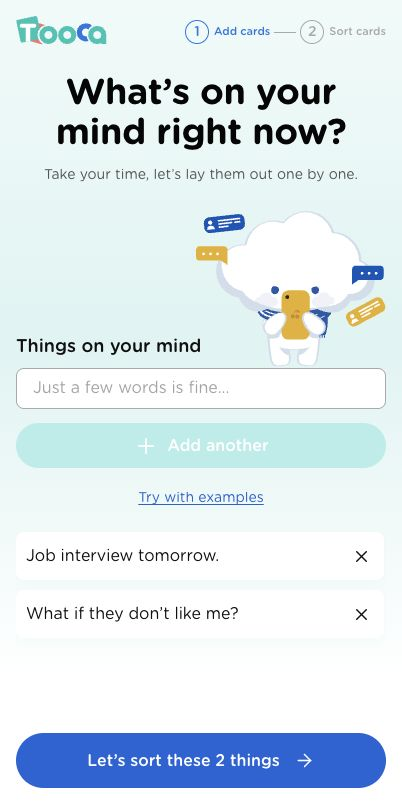
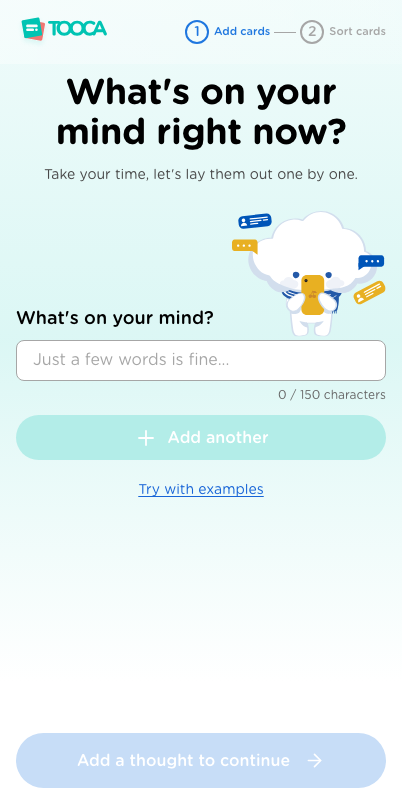
Refresh Tooca branding and case study link

diff --git a/design-qa.md b/design-qa.md
@@ -2,26 +2,26 @@
 
 [← README](README.md) · [Product](docs/product.md) · [Development & verification](docs/development.md)
 
-This report records earlier visual and interaction reviews. Screenshots are historical evidence, not a live rendering of the latest code. Updating this document did not rerun the application checks.
+This report records visual and interaction review evidence. The current capture set was refreshed on 4 October 2026 after the independent TOOCA two-card logo and favicon replaced the earlier identity assets. Older comparison captures remain in the repository as process history; they are not evidence of the current identity.
 
 ## Review overview
 
 | Area | Recorded result | Remaining concern |
 | :--- | :--- | :--- |
-| Add cards | Reference comparisons and responsive spacing fixes completed | Captures predate the 150-character input cap and initial-focus update |
-| Sort cards | Full neutral, drag, next-card, undo, and responsive states reviewed | Captures predate mobile mascot feedback and delayed next-card text; supplied colors have insufficient contrast |
-| Reflection | Groups, undo, reset, responsive layout, and persistence reviewed | Captures predate the supplied group icon assets and some background and mascot-state updates |
+| Add cards | Current desktop and mobile captures include the new logo | Broader historical layout comparisons are archived |
+| Sort cards | Current neutral, drag, next-card, and responsive captures were regenerated by the browser verification script | Supplied colors have insufficient contrast |
+| Reflection | Current desktop and mobile captures include the new logo | Broader historical layout comparisons are archived |
 | Design tokens | Shared color/radius generation and raw-value audit added | Layout and typography values have separate ownership |
 
 ## Visual evidence
 
-| Experience | Desktop | Mobile / responsive | Comparison |
-| :--- | :--- | :--- | :--- |
-| Add cards | [Two cards](qa/step1-desktop-1440.png) · [Ten cards](qa/step1-desktop-10-cards.png) | [Mobile](qa/step1-mobile-402x812.png) · [Tablet fix](qa/step1-tablet-fixed.png) · [Compact desktop fix](qa/step1-compact-desktop-fixed.png) | [Reference comparison](qa/comparison-full.png) |
-| Sort cards | [Neutral](qa/step2-full/01-idle.png) · [Right drag](qa/step2-full/02-drag-right.png) · [Left drag](qa/step2-full/03-drag-left.png) · [Next card](qa/step2-full/04-next-card.png) | [402 px](qa/step2-full/next-402x812.png) · [320 px](qa/step2-full/next-320x667.png) · [780 px](qa/step2-full/next-780x900.png) | [Full interaction comparison](qa/step2-full/comparison.png) |
-| Reflection | [Desktop](qa/step3/desktop-1440x1024.png) | [Mobile](qa/step3/mobile-402x812.png) · [Tablet](qa/step3/tablet-780x900.png) | [Reference comparison](qa/step3/comparison.png) |
+| Experience | Desktop | Mobile / responsive |
+| :--- | :--- | :--- |
+| Add cards | [Current desktop](qa/step1-desktop-1440.png) | [Current mobile](qa/step1-mobile-402x812.png) |
+| Sort cards | [Neutral](qa/step2-full/01-idle.png) · [Right drag](qa/step2-full/02-drag-right.png) · [Left drag](qa/step2-full/03-drag-left.png) · [Next card](qa/step2-full/04-next-card.png) | [402 px](qa/step2-full/next-402x812.png) · [320 px](qa/step2-full/next-320x667.png) · [780 px](qa/step2-full/next-780x900.png) |
+| Reflection | [Current desktop](qa/step3/desktop-1440x1024.png) | [Current mobile](qa/step3/mobile-402x812.png) |
 
-The original design references were supplied outside this repository in the assignment's Setup, Categorize, and Reflection folders. The tracked comparison images above let GitHub readers inspect the recorded comparisons without those local folders. Desktop references use 1440 × 1024; mobile comparisons crop the reference's 62 px device status bar to compare a 402 × 812 app area.
+The original design references were supplied outside this repository in the assignment's Setup, Categorize, and Reflection folders. Earlier comparison images are retained locally for process history but are intentionally not linked above because they predate the current identity. Current desktop captures use 1440 × 1024; mobile captures use 402 × 812.
 
 ## Review history
 
@@ -35,7 +35,7 @@ The fix introduced a tablet layout through 920 px, reserved mascot space between
 
 The first pass corrected mobile card text wrapping and desktop mascot geometry. The full-reference follow-up reviewed the blue neutral card and underlay, coral/teal directional colors, approximately ±12° rotation, overlap over the mascots, final-card sizing, and reserved undo space.
 
-Recorded browser checks covered both directions, cancelled drag, next card, undo, refresh, repeated clicks, completion, reduced motion, and overflow at 1440, 780, 402, and 320 px widths. Earlier captures are also available in [the initial comparison](qa/step2/comparison.png).
+Recorded browser checks covered both directions, cancelled drag, next card, undo, refresh, repeated clicks, completion, reduced motion, and overflow at 1440, 780, 402, and 320 px widths. Earlier comparison captures remain archived and are not current-brand evidence.
 
 ### Reflection
 

diff --git a/README.md b/README.md
@@ -8,7 +8,7 @@
 
 A gentle, interactive space to put worries into words, sort them one at a time, and reflect on what can be acted on now.
 
-**[Try the live demo → tooca-ooca.vercel.app](https://tooca-ooca.vercel.app/)**
+**[Try the live demo → tooca-case-study.vercel.app](https://tooca-case-study.vercel.app/)**
 
 [Product & experience](docs/product.md) · [Architecture & state](docs/architecture.md) · [Development & design system](docs/development.md) · [Design QA](design-qa.md)
 
